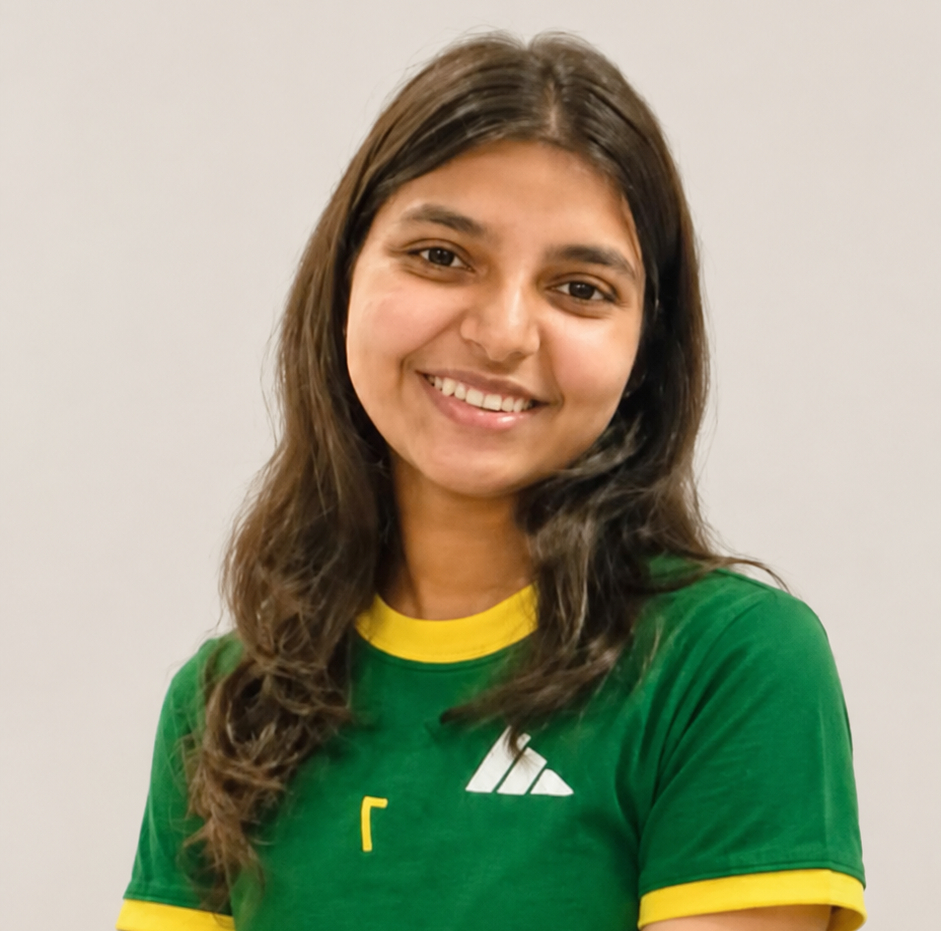
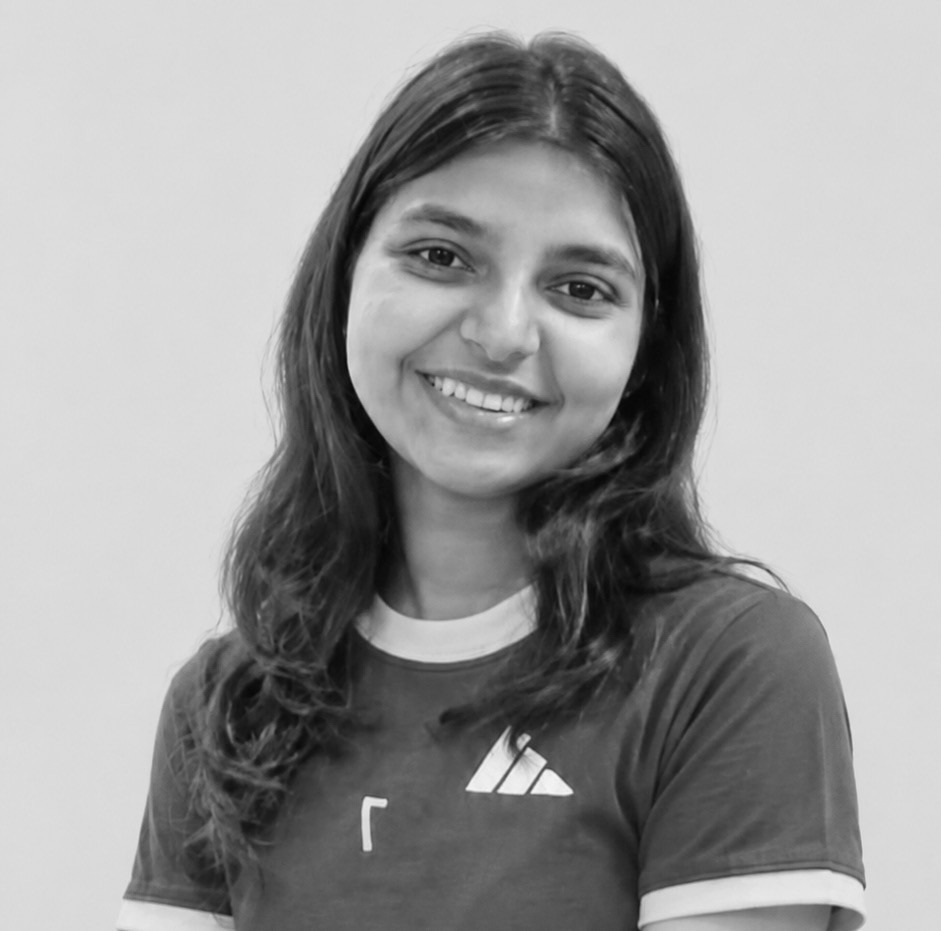
style(team): convert Bhumi image to black and white

diff --git a/src/components/TeamPage.jsx b/src/components/TeamPage.jsx
@@ -8,6 +8,7 @@ const FOUNDERS = [
     name: 'Bhumi Chavan',
     role: 'Co-Founder · Vision & Product Architecture',
     image: '/bhumi.jpg',
+    grayscale: true,
     currentStatus: 'Architecting Autonomous Workflows',
     accentColor: '#7B5CF0', // Signature Purple
     glowColor: 'rgba(123, 92, 240, 0.35)',
@@ -161,7 +162,7 @@ export function TeamPage({ onBack }) {
                       <img
                         src={founder.image}
                         alt={founder.name}
-                        className="w-full h-full object-cover object-top transition-transform duration-500 group-hover:scale-105"
+                        className={`w-full h-full object-cover object-top transition-transform duration-500 group-hover:scale-105 ${founder.grayscale ? 'grayscale contrast-[1.05]' : ''}`}
                       />
                       {/* Subtle inner glass overlay rim */}
                       <div className="absolute inset-0 rounded-[28px] pointer-events-none ring-1 ring-inset ring-white/50" />

diff --git a/src/components/TeamSection.jsx b/src/components/TeamSection.jsx
@@ -7,6 +7,7 @@ const TEAM = [
     name: 'Bhumi Chavan',
     role: 'Vision & Planning',
     image: '/bhumi.jpg',
+    grayscale: true,
     tag: 'CS Major',
     avatarText: 'BC',
     quote: 'If a repetitive task exists on a desktop, a human shouldn’t have to do it twice.',
@@ -109,7 +110,7 @@ export function TeamSection({ theme }) {
                   <img
                     src={member.image}
                     alt={member.name}
-                    className="w-full h-full object-cover object-top"
+                    className={`w-full h-full object-cover object-top ${member.grayscale ? 'grayscale contrast-[1.05]' : ''}`}
                   />
                 </div>
               ) : (
